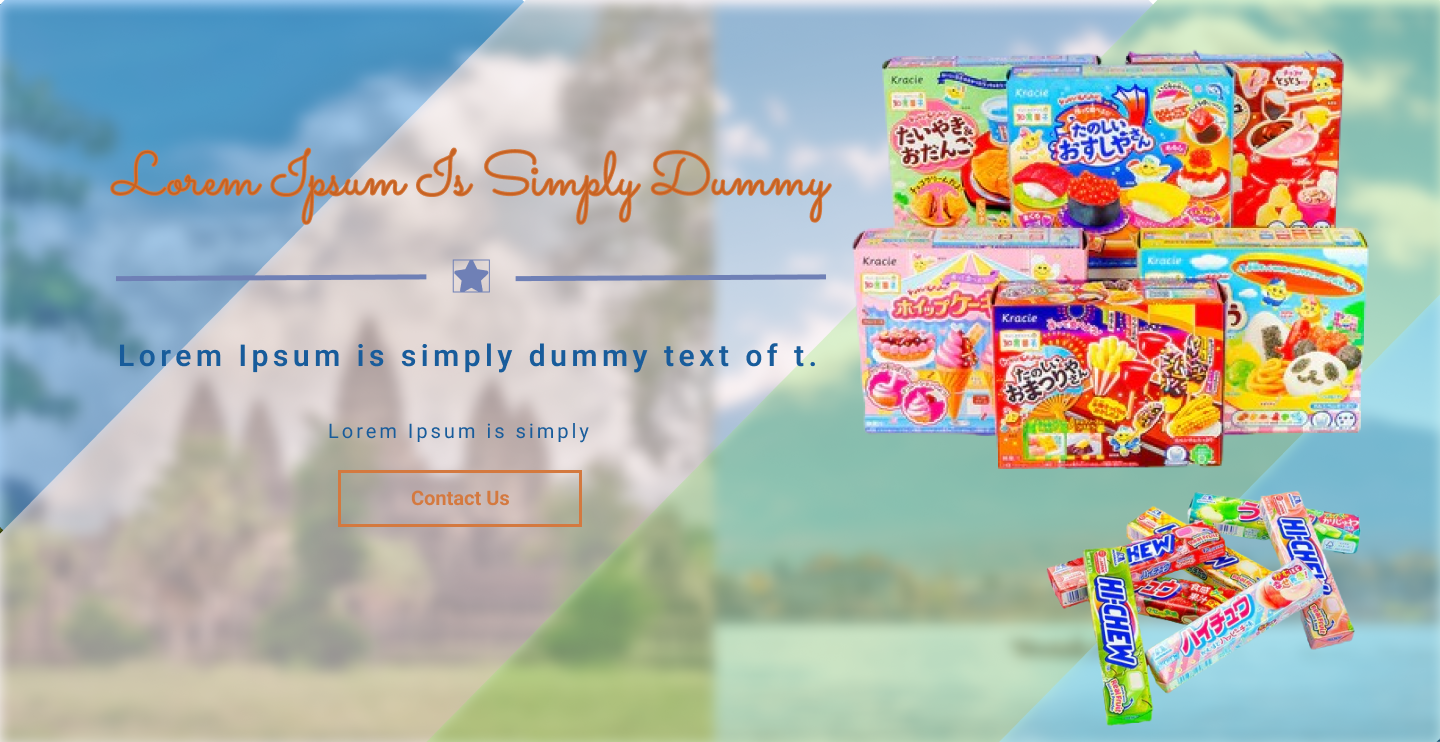
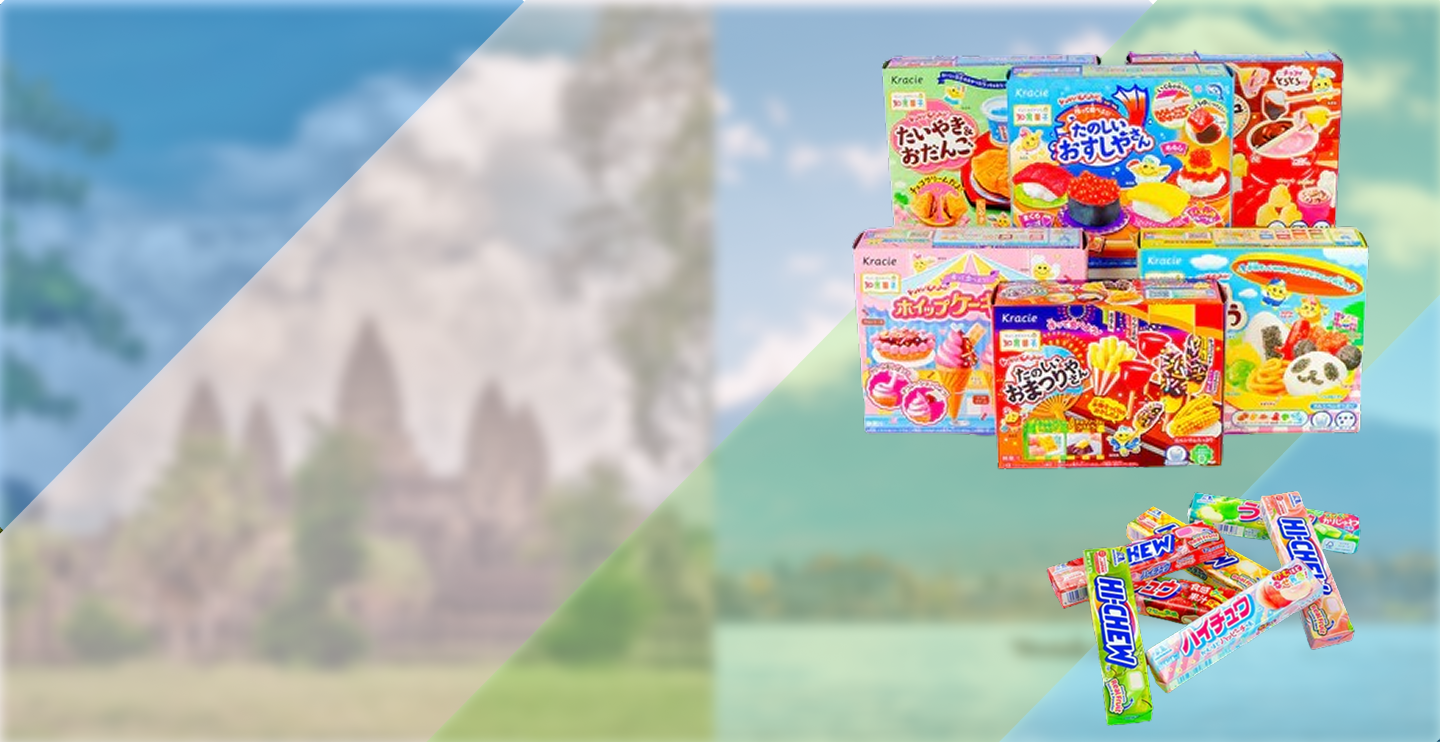
23/01/26 Update

diff --git a/resources/js/Layouts/InnerPageLayout.jsx b/resources/js/Layouts/InnerPageLayout.jsx
@@ -5,11 +5,11 @@ import useTranslate from "@/hooks/useTranslate";
 function HomeHero({ image = "/images/banner1.png" }) {
   return (
     <section className="relative w-full overflow-hidden">
-      <div className="relative w-full h-[220px] sm:h-[320px] md:h-[420px] lg:h-[520px] xl:h-[600px]">
+      <div className="relative w-full h-[500px] sm:h-[600px] md:h-[700px] lg:h-[800px] xl:h-[900px]">
         <img
           src={image}
           alt="Home banner"
-          className="absolute inset-0 h-full w-full object-cover"
+          className="absolute inset-0 h-full w-full object-fit"
           draggable={false}
         />
 
@@ -17,33 +17,33 @@ function HomeHero({ image = "/images/banner1.png" }) {
         <div className="absolute inset-x-0 bottom-0 h-20 bg-gradient-to-t from-white to-transparent" />
 
         <div className="relative z-10 mx-auto flex h-full max-w-7xl items-center px-4 sm:px-6 lg:px-12">
-          <div className="max-w-xl">
-            <p className="text-[11px] sm:text-[12px] font-Bold uppercase tracking-[0.3em] text-white/90">
+          <div className="w-full max-w-4xl">
+            <p className="text-[15px] sm:text-[16px] font-Bold uppercase tracking-[0.3em] text-white/90">
               DKTD-Genki
             </p>
 
-            <h1 className="mt-3 text-[28px] sm:text-[40px] md:text-[52px] lg:text-[60px] font-Bold leading-tight text-white drop-shadow">
-              Premium Snacks
-              <span className="block text-white/90">For Everyone</span>
+            <h1 className="whitespace-nowrap text-[38px] sm:text-[50px] md:text-[62px] lg:text-[70px] font-Bold leading-tight text-[#C46A2A] drop-shadow">
+              <span className="block">Premium Snacks</span>
+              <span className="block text-[#185C9B]">For Everyone</span>
             </h1>
 
-            <p className="mt-4 text-[14px] sm:text-[16px] md:text-[18px] text-white/85 leading-relaxed">
+            <p className="mt-4 text-[18px] sm:text-[20px] md:text-[22px] text-[#C46A2A] leading-relaxed">
               Imported snacks & candies that bring joy to every moment.
             </p>
 
             <div className="mt-8 flex flex-wrap gap-3">
               <a
                 href={route("products")}
-                className="inline-flex items-center justify-center rounded-full bg-white px-7 py-3 text-[12px] sm:text-[13px] font-Bold uppercase tracking-[0.2em] text-[#185C9B] shadow-lg shadow-black/10 hover:bg-white/90 transition"
+                className="inline-flex items-center justify-center rounded-full bg-[#185C9B] px-7 py-3 text-[12px] sm:text-[13px] font-Bold uppercase tracking-[0.2em] text-white shadow-lg shadow-[#185C9B]/30 hover:bg-[#124b80] transition-colors"
               >
                 Shop Now
               </a>
 
               <a
                 href={route("contact")}
-                className="inline-flex items-center justify-center rounded-full border border-white/60 px-7 py-3 text-[12px] sm:text-[13px] font-Bold uppercase tracking-[0.2em] text-white hover:bg-white/10 transition"
+                className="inline-flex items-center justify-center rounded-full border-2 border-[#185C9B] bg-white/90 px-7 py-3 text-[12px] sm:text-[13px] font-Bold uppercase tracking-[0.2em] text-[#185C9B] hover:bg-[#f0f7ff] transition-colors"
               >
-                Contact
+                Contact Us
               </a>
             </div>
           </div>
@@ -58,11 +58,15 @@ export default function InnerPageLayout({ titleKey, children, isHome = false }) 
 
   return (
     <PublicLayout>
-      <InnerBanner
-        title={t(titleKey)}
-        image={isHome ? "/images/banner1.png" : "/images/banner.png"}
-        objectPosition="center"
-      />
+      {isHome ? (
+        <HomeHero />
+      ) : (
+        <InnerBanner
+          title={t(titleKey)}
+          image="/images/banner3.png"
+          objectPosition="center"
+        />
+      )}
 
       <div className="mx-auto max-w-7xl px-4 sm:px-6 lg:px-8 py-8 sm:py-10">
         {children}

diff --git a/resources/js/Components/InnerBanner.jsx b/resources/js/Components/InnerBanner.jsx
@@ -3,7 +3,7 @@ import { usePage } from "@inertiajs/react";
 export default function InnerBanner({
   title,
   titleClassName = "",
-  image = "/images/banner.png",
+  image = "/images/banner3.png",
   objectPosition = "center",
   subtitle = "", // optional: small line under title
   compact = false, // optional: smaller banner for some pages
@@ -16,8 +16,8 @@ export default function InnerBanner({
 
   // Responsive heights
   const h = compact
-    ? "h-[170px] sm:h-[210px] md:h-[240px] lg:h-[280px]"
-    : "h-[210px] sm:h-[260px] md:h-[320px] lg:h-[380px] xl:h-[420px]";
+    ? "h-[100px] sm:h-[150px] md:h-[200px] lg:h-[250px]"
+    : "h-[100px] sm:h-[150px] md:h-[200px] lg:h-[250px] xl:h-[300px]";
 
   return (
     <section className="relative w-full overflow-hidden bg-white">
@@ -40,7 +40,7 @@ export default function InnerBanner({
             className={[
               // responsive title size
               "text-[28px] sm:text-[34px] md:text-[40px] lg:text-[44px]",
-              "leading-none text-[#7A3B14] drop-shadow-sm",
+              "leading-none text-[#7A3B14] drop-shadow-sm font-display",
               titleClass,
             ].join(" ")}
           >

diff --git a/resources/js/Pages/Home.jsx b/resources/js/Pages/Home.jsx
@@ -60,7 +60,7 @@ export default function Home({ products, promotions }) {
               <div className="flex items-center gap-3 mb-4">
                 <div className="h-[2px] w-12 bg-[#185C9B]" />
                 <p className="text-[14px] font-Bold tracking-[0.3em] text-[#185C9B] uppercase">
-                  {t("messages.business_insights")}
+                  {t("messages.about_intro_subtitle")}
                 </p>
               </div>
 
@@ -147,7 +147,7 @@ export default function Home({ products, promotions }) {
               {t("messages.our_products")}
             </h2>
             <p className="text-[15px] tracking-[0.25em] text-[#185C9B]">
-              {t("messages.business_insights")}
+              {t("messages.products_intro_subtitle")}
             </p>
           </div>
 
@@ -235,7 +235,7 @@ export default function Home({ products, promotions }) {
             {t("messages.promotion")}
           </h2>
           <p className="text-center text-[15px] tracking-[0.25em] text-[#185C9B]">
-            {t("messages.business_insights")}
+            {t("messages.promotion_intro_subtitle")}
           </p>
 
 

diff --git a/resources/js/Pages/Promotion.jsx b/resources/js/Pages/Promotion.jsx
@@ -23,7 +23,7 @@ export default function Promotion({ promotions = { data: [] } }) {
               {t("messages.promotion_heading")}
             </h2>
             <p className="mt-3 text-[15px] font-SemiBold tracking-[0.25em] text-[#185C9B]">
-              {t("messages.business_insights")}
+              {t("messages.promotion_intro_subtitle")}
             </p>
           </div>
 

diff --git a/resources/js/Pages/Products.jsx b/resources/js/Pages/Products.jsx
@@ -24,7 +24,7 @@ export default function Products({ products, categories, filters }) {
               {t("messages.our_products")}
             </h2>
             <p className="mt-3 text-[15px] font-SemiBold tracking-[0.25em] text-[#185C9B]">
-              {t("messages.business_insights")}
+              {t("messages.products_intro_subtitle")}
             </p>
           </div>
 

diff --git a/resources/lang/kh/messages.php b/resources/lang/kh/messages.php
@@ -18,6 +18,9 @@ return [
 
     // Home Page Specific
     'business_insights' => 'ការយល់ដឹងអំពីអាជីវកម្ម និងលើសពីនេះ។',
+    'about_intro_subtitle' => 'អំពីពួកយើង',
+    'products_intro_subtitle' => 'ស្វែងយល់ពីរសជាតិរបស់យើង',
+    'promotion_intro_subtitle' => 'ការផ្តល់ជូននិងព័ត៌មានថ្មីៗ',
     'short_Desc' => 'DKTD Genki មានឯកទេសលើបន្ទះសៀគ្វីដ៏ល្អឥតខ្ចោះដែលត្រូវបានរចនាឡើងដើម្បីផ្គូផ្គងគ្រប់រសជាតិ។ យីហោនេះផ្តល់អាទិភាពដល់អាហារសម្រន់ដែលផ្តល់ភាពសប្បាយរីករាយ ញញឹម ដែលផ្តល់ភាពរីករាយដល់កុមារ និងក្រុមគ្រួសារនៅក្នុងប្រទេសកម្ពុជា ជាពិសេសនៅជុំវិញទីក្រុងភ្នំពេញ។ \n\nគ្រឿងផ្សំដែលមានគុណភាព និងពូជដែលគួរឱ្យលេង ជំរុញបេសកកម្មរបស់ខ្លួនក្នុងការចែកចាយសុភមង្គលតាមរយៈរាល់ការខាំ។',
     'years_legacy_number' => '25+',
     'years_legacy_text' => 'ឆ្នាំនៃកេរ្តិ៍ដំណែល',

diff --git a/resources/lang/en/messages.php b/resources/lang/en/messages.php
@@ -19,6 +19,9 @@ return [
 
     // Home Page Specific
     'business_insights' => 'Business Insights & Beyond',
+    'about_intro_subtitle' => 'Who We Are',
+    'products_intro_subtitle' => 'Explore Our Flavors',
+    'promotion_intro_subtitle' => 'Latest Deals & News',
     'short_Desc' => "DKTD Genki specializes in perfectly crispy chips designed to match every flavor mood. The brand prioritizes fun, smile-inducing snacks that delight kids and families in Cambodia, particularly around Phnom Penh.\n\n Quality ingredients and playful varieties drive its mission to spread happiness through every bite.",
     'years_legacy_number' => '25+',
     'years_legacy_text' => 'Years of Legacy',
